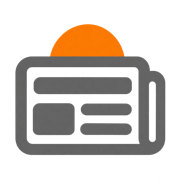
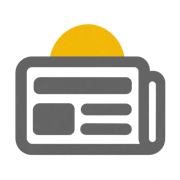
New blue and gold palette in place of orange

Changed region(s): [[0.2778, 0.1111, 0.6944, 0.3333]]

diff --git a/styles.css b/styles.css
@@ -1,21 +1,22 @@
 /* My Morning News website. Light and dark themes via CSS variables; dark follows the system unless chosen. */
 
 :root {
-  --brand: #f5820d;
-  --brand-strong: #d96d00;
-  --brand-soft: #fff1e3;
-  --ink: #1f2328;
-  --ink-soft: #4b5260;
-  --ink-faint: #6b7280;
+  --brand: #2563eb;
+  --brand-strong: #1d4ed8;
+  --brand-soft: #dbeafe;
+  --on-brand: #ffffff;
+  --ink: #0f172a;
+  --ink-soft: #475569;
+  --ink-faint: #64748b;
   --gray: #646464;
   --bg: #ffffff;
-  --bg-alt: #f7f6f3;
+  --bg-alt: #f8fafc;
   --surface: #ffffff;
-  --border: #e5e2dc;
-  --shadow: 0 1px 2px rgba(20, 20, 20, 0.04), 0 12px 32px rgba(20, 20, 20, 0.08);
-  --code-bg: #1f2328;
+  --border: #e2e8f0;
+  --shadow: 0 1px 2px rgba(15, 23, 42, 0.04), 0 12px 32px rgba(15, 23, 42, 0.08);
+  --code-bg: #0f172a;
   --code-ink: #f3f4f6;
-  --focus: #0b6bcb;
+  --focus: #1d4ed8;
   --radius: 14px;
   --font: ui-rounded, "SF Pro Rounded", "Nunito", "Segoe UI", system-ui, -apple-system, Roboto, "Helvetica Neue", Arial, sans-serif;
   --mono: ui-monospace, SFMono-Regular, Menlo, Consolas, "Liberation Mono", monospace;
@@ -24,39 +25,41 @@
 
 @media (prefers-color-scheme: dark) {
   :root:not([data-theme="light"]) {
-    --brand: #ff9a33;
-    --brand-strong: #ffb366;
-    --brand-soft: #3a2614;
-    --ink: #eceff4;
-    --ink-soft: #c3c8d2;
-    --ink-faint: #9aa1ad;
+    --brand: #60a5fa;
+    --brand-strong: #93c5fd;
+    --brand-soft: #172a4d;
+    --on-brand: #0b1224;
+    --ink: #e2e8f0;
+    --ink-soft: #cbd5e1;
+    --ink-faint: #94a3b8;
     --gray: #a8a8a8;
-    --bg: #121417;
-    --bg-alt: #181b1f;
-    --surface: #1e2227;
-    --border: #2c3138;
-    --shadow: 0 1px 2px rgba(0, 0, 0, 0.3), 0 12px 32px rgba(0, 0, 0, 0.35);
-    --code-bg: #0b0d10;
-    --focus: #6cb4ff;
+    --bg: #0f172a;
+    --bg-alt: #111c33;
+    --surface: #16223c;
+    --border: #26344f;
+    --shadow: 0 1px 2px rgba(2, 6, 23, 0.3), 0 12px 32px rgba(2, 6, 23, 0.35);
+    --code-bg: #0b1224;
+    --focus: #93c5fd;
     color-scheme: dark;
   }
 }
 
 :root[data-theme="dark"] {
-  --brand: #ff9a33;
-  --brand-strong: #ffb366;
-  --brand-soft: #3a2614;
-  --ink: #eceff4;
-  --ink-soft: #c3c8d2;
-  --ink-faint: #9aa1ad;
+  --brand: #60a5fa;
+  --brand-strong: #93c5fd;
+  --brand-soft: #172a4d;
+  --on-brand: #0b1224;
+  --ink: #e2e8f0;
+  --ink-soft: #cbd5e1;
+  --ink-faint: #94a3b8;
   --gray: #a8a8a8;
-  --bg: #121417;
-  --bg-alt: #181b1f;
-  --surface: #1e2227;
-  --border: #2c3138;
-  --shadow: 0 1px 2px rgba(0, 0, 0, 0.3), 0 12px 32px rgba(0, 0, 0, 0.35);
-  --code-bg: #0b0d10;
-  --focus: #6cb4ff;
+  --bg: #0f172a;
+  --bg-alt: #111c33;
+  --surface: #16223c;
+  --border: #26344f;
+  --shadow: 0 1px 2px rgba(2, 6, 23, 0.3), 0 12px 32px rgba(2, 6, 23, 0.35);
+  --code-bg: #0b1224;
+  --focus: #93c5fd;
   color-scheme: dark;
 }
 
@@ -105,8 +108,8 @@ p { margin: 0 0 1em; }
   font-weight: 700; font-size: 1rem; text-decoration: none;
   border: 2px solid transparent; transition: background 0.15s, color 0.15s, border-color 0.15s, transform 0.15s;
 }
-.btn-primary { background: var(--brand); color: #1a1006; }
-.btn-primary:hover { background: var(--brand-strong); color: #1a1006; }
+.btn-primary { background: var(--brand); color: var(--on-brand); }
+.btn-primary:hover { background: var(--brand-strong); color: var(--on-brand); }
 .btn-ghost { border-color: var(--border); color: var(--ink); background: transparent; }
 .btn-ghost:hover { border-color: var(--brand); color: var(--ink); }
 .btn-small { min-height: 38px; padding: 6px 16px; font-size: 0.95rem; }
@@ -162,7 +165,7 @@ p { margin: 0 0 1em; }
 .meta { font-size: 0.82rem; color: var(--ink-faint); }
 .score {
   flex: 0 0 auto; width: 40px; height: 40px; border-radius: 10px; display: grid; place-items: center;
-  font-weight: 800; font-size: 0.95rem; background: var(--brand); color: #1a1006;
+  font-weight: 800; font-size: 0.95rem; background: var(--brand); color: var(--on-brand);
 }
 .score-low { background: var(--border); color: var(--ink); }
 .card-forecast { margin-top: 14px; padding: 12px 14px; border-left: 4px solid var(--brand); background: var(--brand-soft); border-radius: 8px; }
@@ -186,7 +189,7 @@ p { margin: 0 0 1em; }
 .steps { list-style: none; padding: 0; margin: 36px 0 0; display: grid; grid-template-columns: repeat(3, 1fr); gap: 24px; }
 .steps li { padding: 26px; border: 1px solid var(--border); border-radius: var(--radius); background: var(--surface); }
 .steps p { color: var(--ink-soft); margin: 0; }
-.step-num { display: inline-grid; place-items: center; width: 36px; height: 36px; border-radius: 50%; background: var(--brand); color: #1a1006; font-weight: 800; margin-bottom: 14px; }
+.step-num { display: inline-grid; place-items: center; width: 36px; height: 36px; border-radius: 50%; background: var(--brand); color: var(--on-brand); font-weight: 800; margin-bottom: 14px; }
 
 .channels { display: grid; grid-template-columns: repeat(3, 1fr); gap: 24px; margin-top: 32px; }
 .channel { padding: 28px; background: var(--surface); border: 1px solid var(--border); border-radius: var(--radius); }

diff --git a/index.html b/index.html
@@ -5,7 +5,7 @@
   <meta name="viewport" content="width=device-width, initial-scale=1">
   <title>My Morning News: AI-curated news on the topics you follow</title>
   <meta name="description" content="Sign up, tell us what you want to stay on top of, and let AI curate your regular news. Listen as a podcast, read it in your inbox, or open it in the app.">
-  <meta name="theme-color" content="#f5820d">
+  <meta name="theme-color" content="#2563eb">
   <link rel="canonical" href="https://mymorningnews.ai/">
   <link rel="icon" href="assets/favicon.ico" sizes="any">
   <link rel="icon" type="image/png" sizes="192x192" href="assets/icon-192.png">

diff --git a/privacy.html b/privacy.html
@@ -5,7 +5,7 @@
   <meta name="viewport" content="width=device-width, initial-scale=1">
   <title>Privacy policy | My Morning News</title>
   <meta name="description" content="How My Morning News collects, uses, and protects your information.">
-  <meta name="theme-color" content="#f5820d">
+  <meta name="theme-color" content="#2563eb">
   <link rel="canonical" href="https://mymorningnews.ai/privacy.html">
   <link rel="icon" href="/assets/favicon.ico" sizes="any">
   <link rel="apple-touch-icon" href="/assets/apple-touch-icon.png">

diff --git a/delete-account.html b/delete-account.html
@@ -5,7 +5,7 @@
   <meta name="viewport" content="width=device-width, initial-scale=1">
   <title>Delete your account | My Morning News</title>
   <meta name="description" content="How to delete your My Morning News account and data.">
-  <meta name="theme-color" content="#f5820d">
+  <meta name="theme-color" content="#2563eb">
   <link rel="canonical" href="https://mymorningnews.ai/delete-account.html">
   <link rel="icon" href="/assets/favicon.ico" sizes="any">
   <link rel="apple-touch-icon" href="/assets/apple-touch-icon.png">

diff --git a/terms.html b/terms.html
@@ -5,7 +5,7 @@
   <meta name="viewport" content="width=device-width, initial-scale=1">
   <title>Terms of service | My Morning News</title>
   <meta name="description" content="The terms for using the hosted My Morning News service.">
-  <meta name="theme-color" content="#f5820d">
+  <meta name="theme-color" content="#2563eb">
   <link rel="canonical" href="https://mymorningnews.ai/terms.html">
   <link rel="icon" href="/assets/favicon.ico" sizes="any">
   <link rel="apple-touch-icon" href="/assets/apple-touch-icon.png">

diff --git a/support.html b/support.html
@@ -5,7 +5,7 @@
   <meta name="viewport" content="width=device-width, initial-scale=1">
   <title>Support | My Morning News</title>
   <meta name="description" content="Get help with My Morning News.">
-  <meta name="theme-color" content="#f5820d">
+  <meta name="theme-color" content="#2563eb">
   <link rel="canonical" href="https://mymorningnews.ai/support.html">
   <link rel="icon" href="/assets/favicon.ico" sizes="any">
   <link rel="apple-touch-icon" href="/assets/apple-touch-icon.png">

diff --git a/404.html b/404.html
@@ -5,7 +5,7 @@
   <meta name="viewport" content="width=device-width, initial-scale=1">
   <title>Page not found | My Morning News</title>
   <meta name="description" content="This page does not exist.">
-  <meta name="theme-color" content="#f5820d">
+  <meta name="theme-color" content="#2563eb">
   <meta name="robots" content="noindex">
   <link rel="icon" href="/assets/favicon.ico" sizes="any">
   <link rel="apple-touch-icon" href="/assets/apple-touch-icon.png">
